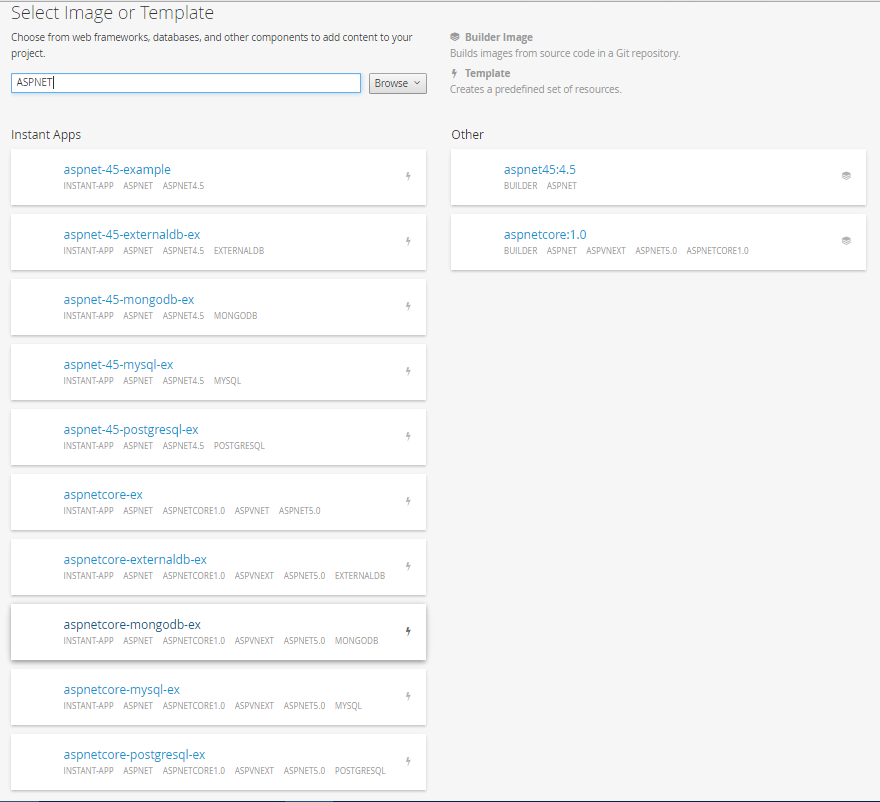
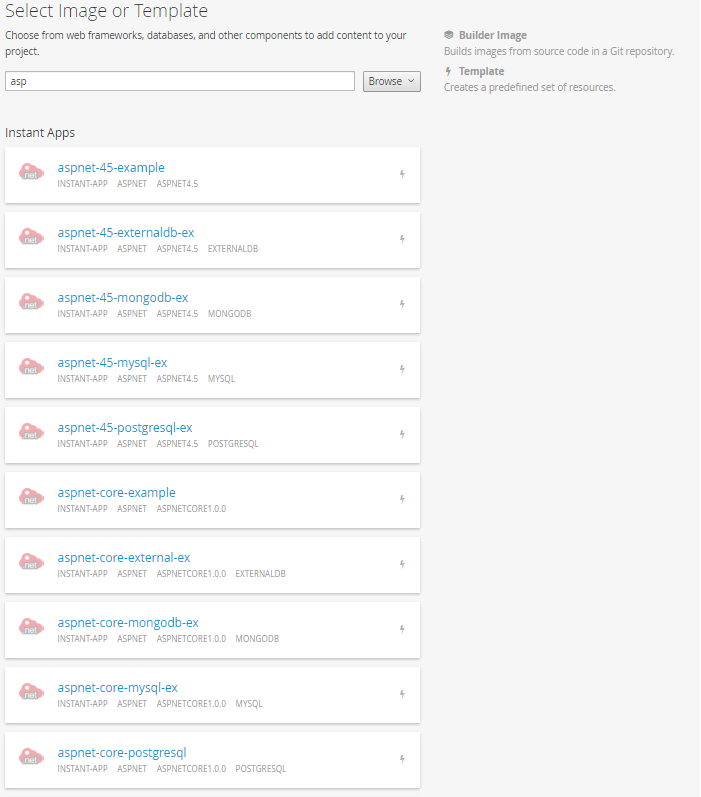
fixed namespace issue

diff --git a/README.md b/README.md
@@ -28,6 +28,6 @@ oc create -f aspnet-5.0-mongodb-template.json -n openshift
 oc create -f aspnet-5.0-mysql-template.json -n openshift
 oc create -f aspnet-5.0-postgresql-template.json -n openshift
 ```
-After installing .NET Templates, verify it from OpenShift Web Console. You should get following result after searching `ASPNET` in `Select Image or Template` page.
+After installing .NET Templates, verify it from OpenShift Web Console. You should get following result after searching `asp` in `Select Image or Template` page.
 
 ![Search Result](/result.png?raw=true "Result")
